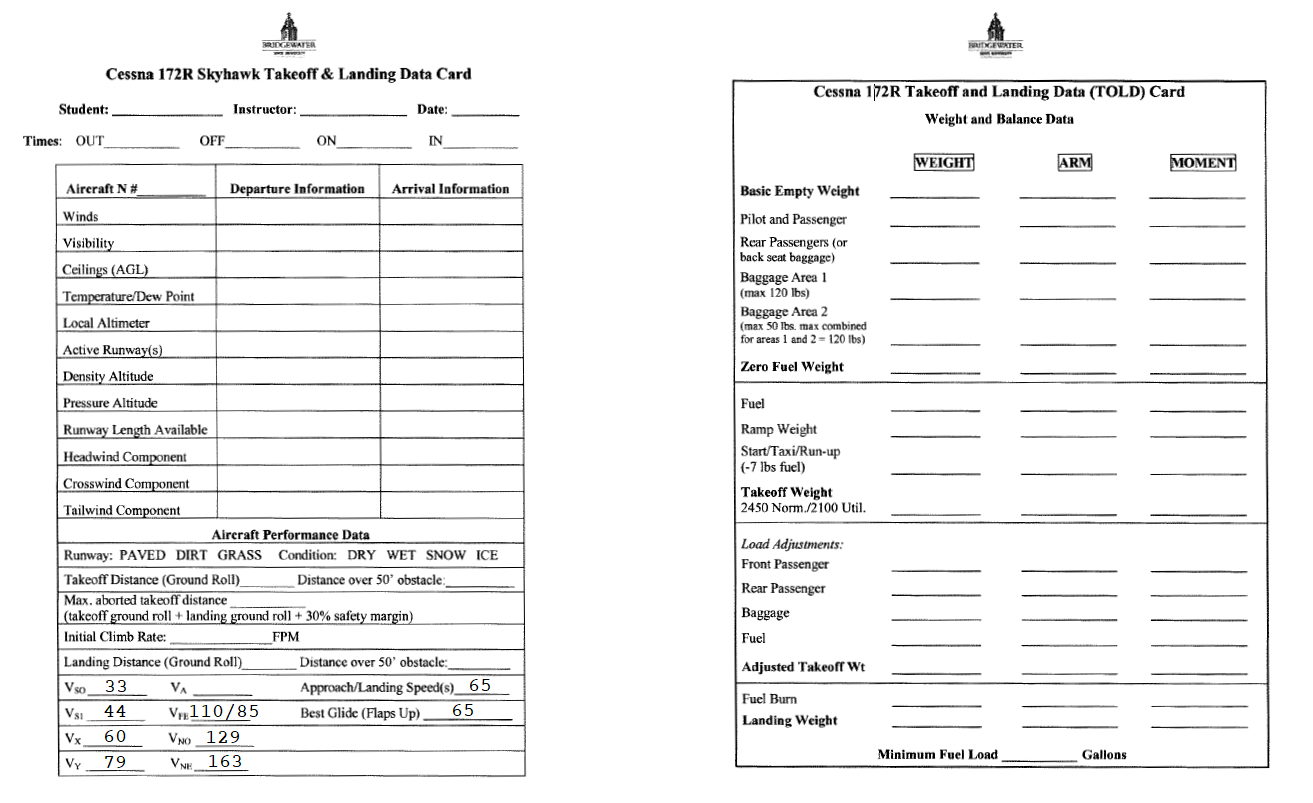
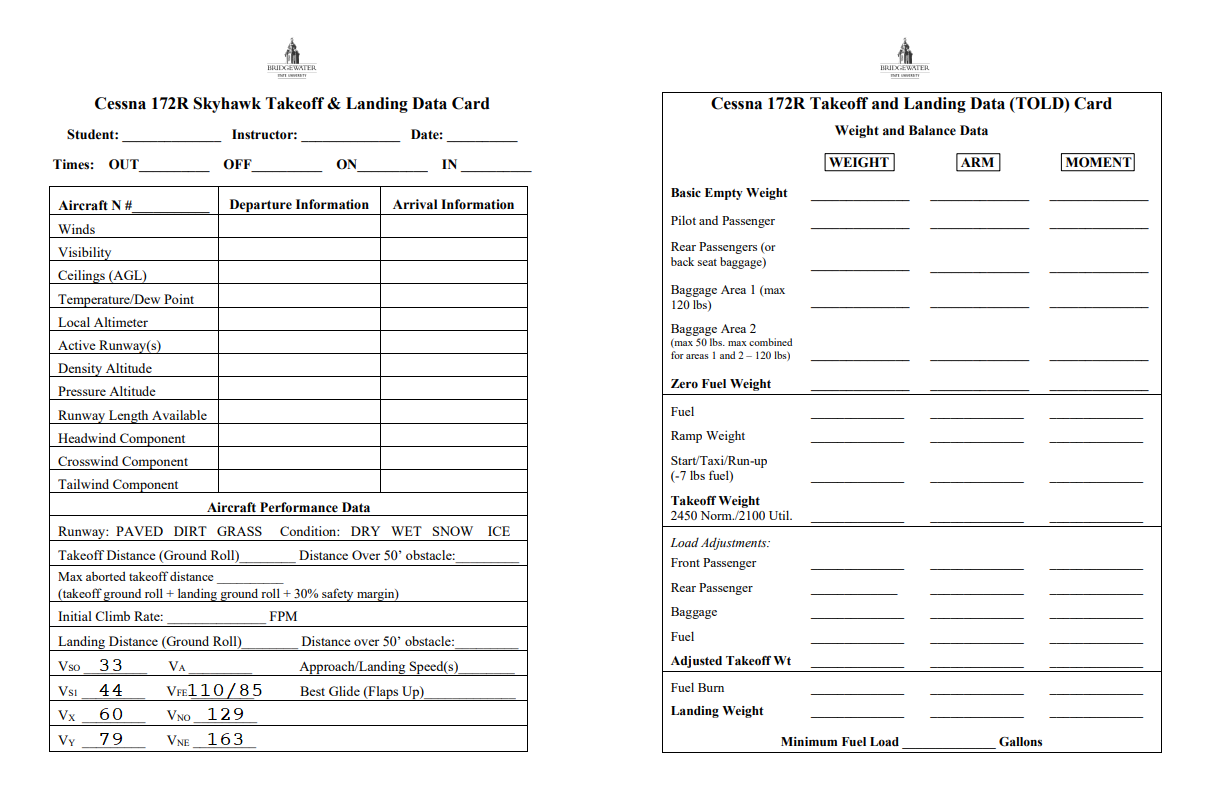
new toldcard

Changed region(s): [[0.0, 0.03, 0.4274, 0.9912], [0.5495, 0.03, 0.9769, 0.9612], [0.6716, 0.3605, 0.8548, 0.3905]]

diff --git a/autofill.py b/autofill.py
@@ -151,9 +151,11 @@ def fill(input_data, metar: dict, runway: str):
     d1 = ImageDraw.Draw(img)
     font = ImageFont.truetype(f"{config.CWD}/fonts/Courier Prime.ttf", 20)
     
-    row1 = [(898, 181),(898, 209),(898, 247),(898, 283),(898,328),(898, 356),(898, 394),(898, 419),(898, 457),(898, 498),(898, 689),(898, 710)]
-    row2 = [(a+140,b) for a,b in row1]
-    row3 = [(a+262,b) for a,b in row1]
+
+    xc = 815
+    row1 = [(xc, 184),(xc, 212),(xc, 254),(xc, 291),(xc,344),(xc, 373),(xc, 402),(xc, 425),(xc, 466),(xc, 505),(xc, 678),(xc, 700)]
+    row2 = [(a+130,b) for a,b in row1]
+    row3 = [(a+242,b) for a,b in row1]
 
     for i, row in enumerate(row1):
         d1.text(row, numbers[i][0], fill=COLOR, font=font)
@@ -165,21 +167,22 @@ def fill(input_data, metar: dict, runway: str):
     runway, length, headwind, crosswind = _find_active_runway(metar, runway)
     data = _get_data(metar, headwind)
 
-    wx = [("wind", (235, 204)), ("visibility", (235, 231)), ("layers", (235, 258)), ("temp_dewpoint", (235,283)), ("altimeter", (235,310)), ("density_altitude", (235,363)), ("pressure_altitude", (235,390))]
+    wxxc = 225
+    wx = [("wind", (wxxc, 218)), ("visibility", (wxxc, 242)), ("layers", (wxxc, 264)), ("temp_dewpoint", (wxxc,288)), ("altimeter", (wxxc,312)), ("density_altitude", (wxxc,358)), ("pressure_altitude", (wxxc,380))]
     for key, coords in wx:
         d1.text(coords, data[key], fill=COLOR, font=font)
 
     # Runway, length, headwind, crosswind
-    d1.text((236, 338), runway,fill=COLOR, font=font)
-    d1.text((236, 417), length, fill=COLOR, font=font)
-    d1.text((236, 444), headwind, fill=COLOR, font=font)
-    d1.text((236, 471), crosswind, fill=COLOR, font=font)
+    d1.text((wxxc, 335), runway,fill=COLOR, font=font)
+    d1.text((wxxc, 405), length, fill=COLOR, font=font)
+    d1.text((wxxc, 429), headwind, fill=COLOR, font=font)
+    d1.text((wxxc, 451), crosswind, fill=COLOR, font=font)
 
     
     va = lambda tow: str(round(99*math.sqrt(tow/2450), 1))
 
     maneuvering_speed = va(input_data[11][1])
-    d1.text((200, 678), maneuvering_speed, fill=COLOR, font=font)
+    d1.text((198, 657), maneuvering_speed, fill=COLOR, font=font)
 
     takeoff = data["takeoff_distance"]
 
@@ -191,10 +194,10 @@ def fill(input_data, metar: dict, runway: str):
     fiftyfoot *= wind_factor
 
 
-    d1.text((242, 570), str(round(rollto)), fill=COLOR, font=font)
-    d1.text((448, 570), str(round(fiftyfoot)), fill=COLOR, font=font)
+    d1.text((244, 547), str(round(rollto)), fill=COLOR, font=font)
+    d1.text((458, 547), str(round(fiftyfoot)), fill=COLOR, font=font)
 
-    d1.text((193, 627), str(data["rate_of_climb"]), fill=COLOR, font=font)
+    d1.text((193, 607), str(data["rate_of_climb"]), fill=COLOR, font=font)
 
     landing = data["landing_distance"]
     rolll, fiftyfoot = landing
@@ -203,11 +206,11 @@ def fill(input_data, metar: dict, runway: str):
     fiftyfoot *= wind_factor
 
 
-    d1.text((248, 652), str(round(rolll)), fill=COLOR, font=font)
-    d1.text((452, 653), str(round(fiftyfoot)), fill=COLOR, font=font)
+    d1.text((248, 632), str(round(rolll)), fill=COLOR, font=font)
+    d1.text((457, 632), str(round(fiftyfoot)), fill=COLOR, font=font)
 
     matd = round((rollto + rolll) * 1.3)
-    d1.text((236, 592), str(matd), fill=COLOR, font=font)
+    d1.text((222, 568), str(matd), fill=COLOR, font=font)
     
     imname = f"{str(random.randint(0,1000000000))}c.png"
     impath = f"{config.CWD}/static/tmp/" + imname
